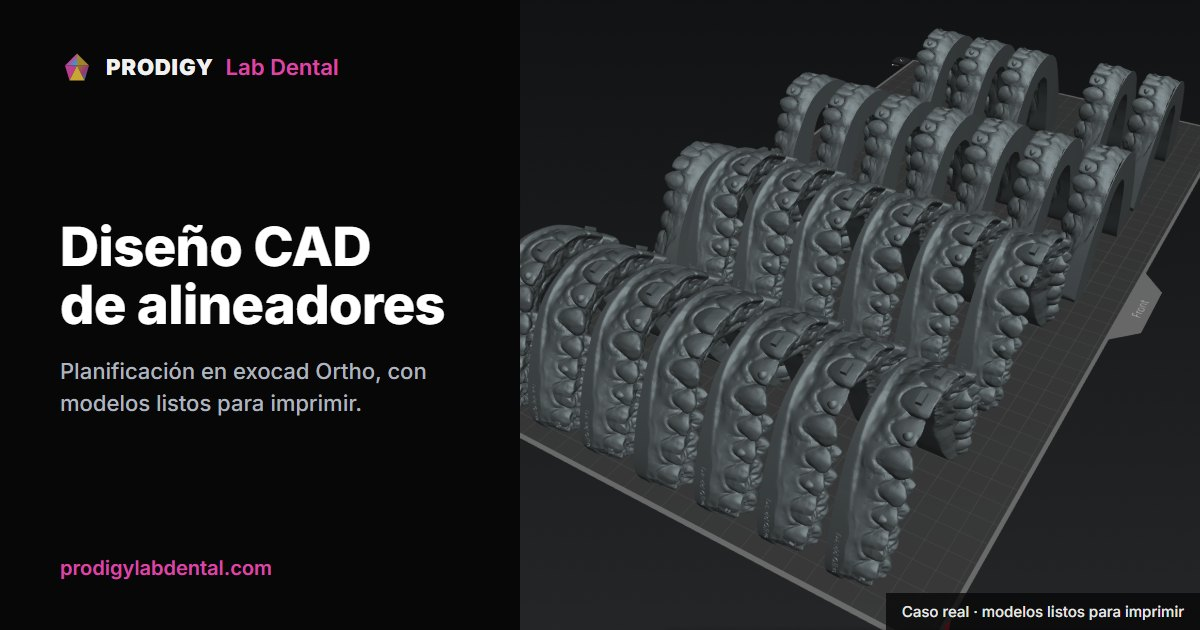
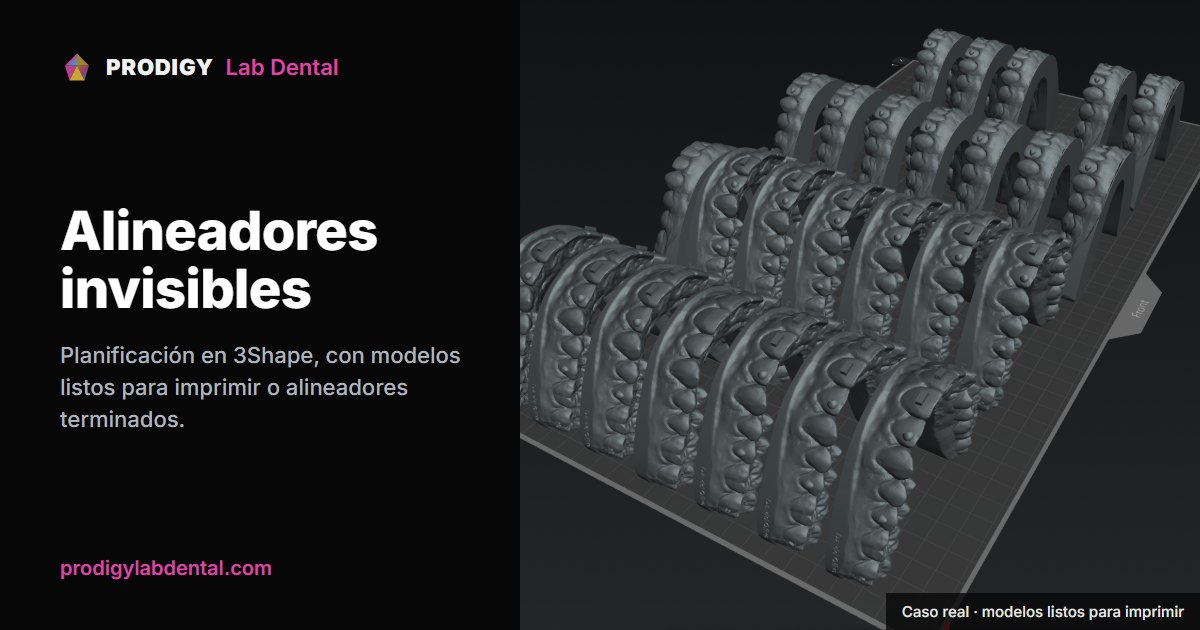
vista previa: /alineadores-cad con galería de casos del portafolio y planificación en 3Shape

Changed region(s): [[0.0308, 0.3317, 0.37, 0.5127], [0.0308, 0.5429, 0.4008, 0.6937]]

diff --git a/alineadores-cad.html b/alineadores-cad.html
@@ -42,9 +42,10 @@
 <noscript><link rel="stylesheet" href="https://fonts.googleapis.com/css2?family=Inter:wght@400;700;900&display=swap"></noscript>
 <link rel="preload" href="assets/font-awesome/fa.css?v=20261118" as="style" onload="this.onload=null;this.rel='stylesheet'">
 <noscript><link rel="stylesheet" href="assets/font-awesome/fa.css?v=20261118"></noscript>
-<link rel="preload" href="js/header.js?v=20261124d" as="script">
-<script type="application/ld+json">{"@context":"https://schema.org","@type":"Service","name":"Planificación y fabricación de alineadores invisibles","description":"Planificación digital de alineadores etapa por etapa, con IPR y attachments, revisada y aprobada por el odontólogo. Entrega del STL de cada etapa o de los alineadores terminados (modelo impreso, lámina termoformada, recorte y pulido), plantilla de attachments y retenedor final.","provider":{"@type":"LocalBusiness","name":"PRODIGY Lab Dental","url":"https://prodigylabdental.com","telephone":"+573212816716","address":{"@type":"PostalAddress","streetAddress":"Calle 147A #54-52","addressLocality":"Bogotá","addressCountry":"CO"}},"areaServed":"Colombia","serviceType":"Clear aligner planning and fabrication","audience":{"@type":"Audience","audienceType":"Odontólogos, ortodoncistas y laboratorios dentales"}}</script>
-<script type="application/ld+json">{"@context":"https://schema.org","@type":"FAQPage","mainEntity":[{"@type":"Question","name":"¿Qué incluye la planificación de alineadores?","acceptedAnswer":{"@type":"Answer","text":"La viabilidad y valoración del caso, el plan etapa por etapa con IPR y attachments, hasta 2 revisiones antes de aprobar y el STL de cada etapa listo para imprimir. Si el tratamiento termina en los tiempos del plan, incluye un refinamiento pedido dentro de los 6 meses siguientes."}},{"@type":"Question","name":"¿Qué pasa si el caso no es viable?","acceptedAnswer":{"@type":"Answer","text":"Primero revisamos la viabilidad y valoramos el caso. Si no es viable o decides no seguir, solo se cobra esa valoración. La valoración tiene vigencia de 3 a 4 meses."}},{"@type":"Question","name":"¿También fabrican los alineadores?","acceptedAnswer":{"@type":"Answer","text":"Sí. En nuestro laboratorio de Bogotá imprimimos el modelo de cada etapa, termoformamos la lámina y recortamos y pulimos cada alineador. También hacemos la plantilla de attachments y el retenedor final."}},{"@type":"Question","name":"¿Qué archivos necesitan?","acceptedAnswer":{"@type":"Answer","text":"El STL de ambas arcadas y la mordida (escaneo intraoral o modelos), radiografía panorámica y lateral de cráneo, fotos frontal, oclusales y laterales, el motivo de consulta, tus indicaciones y si aceptas IPR y attachments."}},{"@type":"Question","name":"¿Cuánto tarda la planificación?","acceptedAnswer":{"@type":"Answer","text":"De 48 a 72 horas hábiles desde que el caso está completo. Contamos días hábiles de Colombia, de lunes a viernes."}}]}</script>
+<link rel="preload" href="js/header.js?v=20261125a" as="script">
+<link rel="stylesheet" href="css/galeria-real.css?v=20261125a">
+<script type="application/ld+json">{"@context":"https://schema.org","@type":"Service","name":"Planificación y fabricación de alineadores invisibles","description":"Planificación digital de alineadores en 3Shape, etapa por etapa, con IPR y attachments, revisada y aprobada por el odontólogo. Entrega del STL de cada etapa o de los alineadores terminados (modelo impreso, lámina termoformada, recorte y pulido), plantilla de attachments y retenedor final.","provider":{"@type":"LocalBusiness","name":"PRODIGY Lab Dental","url":"https://prodigylabdental.com","telephone":"+573212816716","address":{"@type":"PostalAddress","streetAddress":"Calle 147A #54-52","addressLocality":"Bogotá","addressCountry":"CO"}},"areaServed":"Colombia","serviceType":"Clear aligner planning and fabrication","audience":{"@type":"Audience","audienceType":"Odontólogos, ortodoncistas y laboratorios dentales"}}</script>
+<script type="application/ld+json">{"@context":"https://schema.org","@type":"FAQPage","mainEntity":[{"@type":"Question","name":"¿Qué incluye la planificación de alineadores?","acceptedAnswer":{"@type":"Answer","text":"La viabilidad y valoración del caso, el plan etapa por etapa con IPR y attachments, hasta 2 revisiones antes de aprobar y el STL de cada etapa listo para imprimir. Si el tratamiento termina en los tiempos del plan, incluye un refinamiento pedido dentro de los 6 meses siguientes."}},{"@type":"Question","name":"¿Con qué programa planifican?","acceptedAnswer":{"@type":"Answer","text":"En 3Shape y otras herramientas de ortodoncia digital. Te entregamos el STL de cada etapa, que abre cualquier programa e impresora."}},{"@type":"Question","name":"¿Qué pasa si el caso no es viable?","acceptedAnswer":{"@type":"Answer","text":"Primero revisamos la viabilidad y valoramos el caso. Si no es viable o decides no seguir, solo se cobra esa valoración. La valoración tiene vigencia de 3 a 4 meses."}},{"@type":"Question","name":"¿También fabrican los alineadores?","acceptedAnswer":{"@type":"Answer","text":"Sí. En nuestro laboratorio de Bogotá imprimimos el modelo de cada etapa, termoformamos la lámina y recortamos y pulimos cada alineador. También hacemos la plantilla de attachments y el retenedor final."}},{"@type":"Question","name":"¿Qué archivos necesitan?","acceptedAnswer":{"@type":"Answer","text":"El STL de ambas arcadas y la mordida (escaneo intraoral o modelos), radiografía panorámica y lateral de cráneo, fotos frontal, oclusales y laterales, el motivo de consulta, tus indicaciones y si aceptas IPR y attachments."}},{"@type":"Question","name":"¿Cuánto tarda la planificación?","acceptedAnswer":{"@type":"Answer","text":"De 48 a 72 horas hábiles desde que el caso está completo. Contamos días hábiles de Colombia, de lunes a viernes."}}]}</script>
 <script type="application/ld+json">{"@context":"https://schema.org","@type":"HowTo","name":"Cómo enviar un caso de alineadores a PRODIGY","step":[{"@type":"HowToStep","position":1,"name":"Envía el caso","text":"Sube el STL, las radiografías, las fotos y tus indicaciones en /envia-alineadores."},{"@type":"HowToStep","position":2,"name":"Viabilidad y valoración","text":"Revisamos si el caso es viable y estimamos cuántos alineadores necesita."},{"@type":"HowToStep","position":3,"name":"Planificación y revisión","text":"Planificamos cada etapa con IPR y attachments. Lo revisas y pides hasta 2 ajustes antes de aprobar."},{"@type":"HowToStep","position":4,"name":"Entrega","text":"Recibes el STL de cada etapa para imprimir o los alineadores terminados desde Bogotá."}]}</script>
 <script type="application/ld+json">{"@context":"https://schema.org","@type":"BreadcrumbList","itemListElement":[{"@type":"ListItem","position":1,"name":"Inicio","item":"https://prodigylabdental.com/"},{"@type":"ListItem","position":2,"name":"Alineadores invisibles","item":"https://prodigylabdental.com/alineadores-cad"}]}</script>
 <style>
@@ -119,7 +120,7 @@ summary::-webkit-details-marker{display:none;}
 </style>
 </head>
 <body>
-<script src="js/header.js?v=20261124d"></script>
+<script src="js/header.js?v=20261125a"></script>
 
 <main id="main-content">
 
@@ -128,7 +129,7 @@ summary::-webkit-details-marker{display:none;}
     <div class="container hero-grid">
       <div>
         <h1>Planificamos tus alineadores y, si quieres, <em>los fabricamos</em></h1>
-        <p class="hero-sub">Envías el escaneo, las radiografías y las fotos. Una técnica dedicada a ortodoncia planifica el tratamiento etapa por etapa, con IPR y attachments, y tú lo revisas antes de aprobar. Recibes el STL de cada etapa para imprimir en tu consultorio o los alineadores terminados desde nuestro laboratorio en Bogotá.</p>
+        <p class="hero-sub">Envías el escaneo, las radiografías y las fotos. Una técnica dedicada a ortodoncia planifica el tratamiento en 3Shape, etapa por etapa, con IPR y attachments, y tú lo revisas antes de aprobar. Recibes el STL de cada etapa para imprimir en tu consultorio o los alineadores terminados desde nuestro laboratorio en Bogotá.</p>
         <div class="ctas">
           <a href="/envia-alineadores" class="btn-p"><i class="fas fa-upload" aria-hidden="true"></i> Enviar un caso</a>
           <a href="https://wa.me/573212816716?text=Hola%20PRODIGY%2C%20quiero%20informaci%C3%B3n%20sobre%20alineadores." target="_blank" rel="noopener noreferrer" class="btn-o"><i class="fab fa-whatsapp" aria-hidden="true"></i> Preguntar por WhatsApp</a>
@@ -233,6 +234,23 @@ summary::-webkit-details-marker{display:none;}
     </div>
   </section>
 
+  <!-- CASOS DEL PORTAFOLIO (galería con visor: css/galeria-real.css + js/galeria-real.js) -->
+  <section class="sec below-fold">
+    <div class="container">
+      <h2 class="sec-title">Casos de alineadores de nuestro portafolio</h2>
+      <p class="sec-sub">Planificaciones reales hechas en PRODIGY. Toca una foto para verla en grande.</p>
+      <div class="gal-real">
+        <figure><button type="button" class="gal-btn" data-grande="https://zgihrwqfyvgyapbwzkvw.supabase.co/storage/v1/render/image/public/portafolio/caso-1784826632765/cover.png?width=1600&amp;quality=75" aria-label="Ampliar: Plan de tratamiento: 11 alineadores superiores e inferiores"><img src="https://zgihrwqfyvgyapbwzkvw.supabase.co/storage/v1/render/image/public/portafolio/caso-1784826632765/cover.png?width=700&amp;quality=70" alt="Plan de tratamiento: 11 alineadores superiores e inferiores. Posición inicial y final, con los attachments en azul" width="700" height="525" loading="lazy" decoding="async"></button><figcaption>Posición inicial y final, con los attachments en azul · <a href="/caso?id=caso-1784826632765">11 alineadores superiores e inferiores</a></figcaption></figure>
+        <figure><button type="button" class="gal-btn" data-grande="https://zgihrwqfyvgyapbwzkvw.supabase.co/storage/v1/render/image/public/portafolio/caso-1784825019399/gallery/foto-2.png?width=1600&amp;quality=75" aria-label="Ampliar: Plan de tratamiento superior e inferior"><img src="https://zgihrwqfyvgyapbwzkvw.supabase.co/storage/v1/render/image/public/portafolio/caso-1784825019399/gallery/foto-2.png?width=700&amp;quality=70" alt="Plan de tratamiento superior e inferior. Modelos de las etapas con los attachments" width="700" height="525" loading="lazy" decoding="async"></button><figcaption>Modelos de las etapas con los attachments · <a href="/caso?id=caso-1784825019399">superior e inferior</a></figcaption></figure>
+        <figure><button type="button" class="gal-btn" data-grande="https://zgihrwqfyvgyapbwzkvw.supabase.co/storage/v1/render/image/public/portafolio/caso-1784823192836/cover.png?width=1600&amp;quality=75" aria-label="Ampliar: Plan de tratamiento: 8 alineadores superiores"><img src="https://zgihrwqfyvgyapbwzkvw.supabase.co/storage/v1/render/image/public/portafolio/caso-1784823192836/cover.png?width=700&amp;quality=70" alt="Plan de tratamiento: 8 alineadores superiores. Inicio y final del plan superior" width="700" height="525" loading="lazy" decoding="async"></button><figcaption>Inicio y final del plan superior · <a href="/caso?id=caso-1784823192836">8 alineadores superiores</a></figcaption></figure>
+        <figure><button type="button" class="gal-btn" data-grande="https://zgihrwqfyvgyapbwzkvw.supabase.co/storage/v1/render/image/public/portafolio/caso-1784825019399/gallery/foto-3.png?width=1600&amp;quality=75" aria-label="Ampliar: Plan de tratamiento superior e inferior"><img src="https://zgihrwqfyvgyapbwzkvw.supabase.co/storage/v1/render/image/public/portafolio/caso-1784825019399/gallery/foto-3.png?width=700&amp;quality=70" alt="Plan de tratamiento superior e inferior. Arcadas superior e inferior listas para imprimir" width="700" height="525" loading="lazy" decoding="async" style="object-position:center 40%"></button><figcaption>Arcadas superior e inferior listas para imprimir · <a href="/caso?id=caso-1784825019399">superior e inferior</a></figcaption></figure>
+        <figure><button type="button" class="gal-btn" data-grande="https://zgihrwqfyvgyapbwzkvw.supabase.co/storage/v1/render/image/public/portafolio/caso-1784822543789/cover.png?width=1600&amp;quality=75" aria-label="Ampliar: Plan de tratamiento para alineadores superior e inferior"><img src="https://zgihrwqfyvgyapbwzkvw.supabase.co/storage/v1/render/image/public/portafolio/caso-1784822543789/cover.png?width=700&amp;quality=70" alt="Plan de tratamiento para alineadores superior e inferior. Inicio y final del plan, ambas arcadas" width="700" height="525" loading="lazy" decoding="async"></button><figcaption>Inicio y final del plan, ambas arcadas · <a href="/caso?id=caso-1784822543789">alineadores superior e inferior</a></figcaption></figure>
+        <figure><button type="button" class="gal-btn" data-grande="https://zgihrwqfyvgyapbwzkvw.supabase.co/storage/v1/render/image/public/portafolio/caso-1784827436676/cover.png?width=1600&amp;quality=75" aria-label="Ampliar: Plan de tratamiento: 10 alineadores inferiores"><img src="https://zgihrwqfyvgyapbwzkvw.supabase.co/storage/v1/render/image/public/portafolio/caso-1784827436676/cover.png?width=700&amp;quality=70" alt="Plan de tratamiento: 10 alineadores inferiores. Inicio y final del plan inferior" width="700" height="525" loading="lazy" decoding="async"></button><figcaption>Inicio y final del plan inferior · <a href="/caso?id=caso-1784827436676">10 alineadores inferiores</a></figcaption></figure>
+      </div>
+      <p class="sec-sub" style="margin-top:22px;"><a href="/portafolio" style="color:var(--cyan);font-weight:700;">Ver todo el portafolio →</a></p>
+    </div>
+  </section>
+
   <!-- PREGUNTAS -->
   <section class="sec below-fold">
     <div class="container">
@@ -241,6 +259,10 @@ summary::-webkit-details-marker{display:none;}
         <details class="faq-item">
           <summary>¿Qué incluye la planificación?</summary>
           <div class="faq-body">La viabilidad y valoración del caso, el plan etapa por etapa con IPR y attachments, hasta 2 revisiones antes de aprobar y el STL de cada etapa listo para imprimir. Si el tratamiento termina en los tiempos del plan, incluye un refinamiento pedido dentro de los 6 meses siguientes.</div>
+        </details>
+        <details class="faq-item">
+          <summary>¿Con qué programa planifican?</summary>
+          <div class="faq-body">En 3Shape y otras herramientas de ortodoncia digital. Te entregamos el STL de cada etapa, que abre cualquier programa e impresora.</div>
         </details>
         <details class="faq-item">
           <summary>¿Qué pasa si el caso no es viable?</summary>
@@ -283,6 +305,7 @@ summary::-webkit-details-marker{display:none;}
 </main>
 
 <script src="js/footer.js?v=20261124b"></script>
+<script src="js/galeria-real.js?v=20261125a" defer></script>
 <script>
 /* PRODIGY Analytics — track-event */
 (function(){

diff --git a/js/galeria-real.js b/js/galeria-real.js
@@ -1,0 +1,87 @@
+/* Visor de la galería de trabajo real (css/galeria-real.css).
+   Clic en una foto → se amplía en un <dialog> sin salir de la página; flechas para recorrer la misma galería,
+   Esc o clic fuera para cerrar. */
+(function () {
+  'use strict';
+  var visor, img, cap, prev, next, lista = [], idx = 0;
+
+  function crear() {
+    visor = document.createElement('dialog');
+    visor.className = 'gal-visor';
+    visor.setAttribute('aria-label', 'Foto ampliada');
+    visor.innerHTML =
+      '<button type="button" class="gal-cerrar" aria-label="Cerrar">&times;</button>' +
+      '<button type="button" class="gal-prev" aria-label="Foto anterior">&#8249;</button>' +
+      '<figure><img alt=""><figcaption></figcaption></figure>' +
+      '<button type="button" class="gal-next" aria-label="Foto siguiente">&#8250;</button>';
+    document.body.appendChild(visor);
+    img = visor.querySelector('img');
+    cap = visor.querySelector('figcaption');
+    prev = visor.querySelector('.gal-prev');
+    next = visor.querySelector('.gal-next');
+    visor.querySelector('.gal-cerrar').addEventListener('click', function () { visor.close(); });
+    prev.addEventListener('click', function () { mostrar(idx - 1); });
+    next.addEventListener('click', function () { mostrar(idx + 1); });
+    visor.addEventListener('click', function (e) { if (e.target === visor) visor.close(); });
+    visor.addEventListener('keydown', function (e) {
+      if (e.key === 'ArrowLeft') mostrar(idx - 1);
+      else if (e.key === 'ArrowRight') mostrar(idx + 1);
+    });
+  }
+
+  function mostrar(i) {
+    idx = (i + lista.length) % lista.length;
+    var b = lista[idx];
+    var miniatura = b.querySelector('img');
+    var fig = b.closest('figure');
+    var texto = fig && fig.querySelector('figcaption');
+    img.src = b.getAttribute('data-grande') || (miniatura && miniatura.src) || '';
+    img.alt = miniatura ? miniatura.alt : '';
+    cap.textContent = texto ? texto.textContent : '';
+    var varias = lista.length > 1;
+    prev.style.display = varias ? '' : 'none';
+    next.style.display = varias ? '' : 'none';
+  }
+
+  /* Videos cortos (.gal-video): en silencio y en bucle; arrancan cuando se ven y se pausan al salir de pantalla.
+     Con «reducir movimiento» o ahorro de datos no arrancan solos: se reproducen con un clic. */
+  var quieto = window.matchMedia && window.matchMedia('(prefers-reduced-motion: reduce)').matches;
+  var ahorro = navigator.connection && navigator.connection.saveData;
+  var videos = Array.prototype.slice.call(document.querySelectorAll('.gal-video video'));
+  function marcar(v) { var f = v.closest('.gal-video'); if (f) f.classList.toggle('pausado', v.paused); }
+  function reproducir(v) { var p = v.play(); if (p && p.catch) p.catch(function () { marcar(v); }); }
+  videos.forEach(function (v) {
+    v.muted = true;
+    v.addEventListener('play', function () { marcar(v); });
+    v.addEventListener('pause', function () { marcar(v); });
+    marcar(v);
+  });
+  if (videos.length && 'IntersectionObserver' in window && !quieto && !ahorro) {
+    var io = new IntersectionObserver(function (entradas) {
+      entradas.forEach(function (en) {
+        var v = en.target;
+        if (en.isIntersecting && en.intersectionRatio >= 0.5) { if (!v.dataset.pausaManual) reproducir(v); }
+        else if (!v.paused) v.pause();
+      });
+    }, { threshold: [0, 0.5] });
+    videos.forEach(function (v) { io.observe(v); });
+  }
+
+  document.addEventListener('click', function (e) {
+    var cv = e.target && e.target.closest ? e.target.closest('.gal-real .gal-vid') : null;
+    if (cv) {
+      var v = cv.querySelector('video');
+      if (!v) return;
+      if (v.paused) { delete v.dataset.pausaManual; reproducir(v); }
+      else { v.dataset.pausaManual = '1'; v.pause(); }
+      return;
+    }
+    var b = e.target && e.target.closest ? e.target.closest('.gal-real .gal-btn') : null;
+    if (!b) return;
+    if (!visor) crear();
+    if (typeof visor.showModal !== 'function') return; // navegador muy viejo: se queda la miniatura
+    lista = Array.prototype.slice.call(b.closest('.gal-real').querySelectorAll('.gal-btn'));
+    mostrar(lista.indexOf(b));
+    if (!visor.open) visor.showModal();
+  });
+})();

diff --git a/css/galeria-real.css b/css/galeria-real.css
@@ -1,0 +1,43 @@
+/* Galería de trabajo real (fotos propias del laboratorio) + visor ampliado.
+   Uso: <div class="gal-real"> con <figure><button class="gal-btn" data-grande="…-1600.webp"><img …-800.webp></button><figcaption>…</figcaption></figure>
+   El visor lo crea js/galeria-real.js. Filas centradas de miniaturas 4:3 (la foto completa se ve en el visor;
+   para mover el encuadre de una miniatura: style="object-position:center 65%" en su <img>). */
+.gal-real{max-width:1100px;margin:30px auto 0;display:flex;flex-wrap:wrap;justify-content:center;align-items:flex-start;
+  gap:14px;text-align:left;}
+.gal-real figure{flex:0 1 340px;min-width:0;margin:0;background:#0b1220;
+  border:1px solid rgba(255,255,255,.08);border-radius:14px;overflow:hidden;}
+.gal-real .gal-btn{display:block;width:100%;padding:0;margin:0;border:0;background:#000;cursor:zoom-in;overflow:hidden;}
+.gal-real img{display:block;width:100%;height:auto;aspect-ratio:4/3;object-fit:cover;transition:transform .35s ease;}
+.gal-real .gal-btn:hover img,.gal-real .gal-btn:focus-visible img{transform:scale(1.03);}
+.gal-real .gal-btn:focus-visible{outline:2px solid #00d2ff;outline-offset:-2px;}
+.gal-real figcaption{padding:10px 14px 12px;font-size:.95rem;line-height:1.5;color:#cbd5e1;}
+/* Videos cortos: en silencio y en bucle, arrancan al verse (js/galeria-real.js); clic = pausa / sigue */
+.gal-real .gal-vid{position:relative;display:block;width:100%;padding:0;margin:0;border:0;background:#000;cursor:pointer;}
+.gal-real .gal-vid video{display:block;width:100%;height:auto;aspect-ratio:4/5;object-fit:cover;}
+.gal-real .gal-video.ancho .gal-vid video{aspect-ratio:16/9;}
+.gal-real .gal-play{position:absolute;left:50%;top:50%;width:64px;height:64px;margin:-32px 0 0 -32px;border-radius:50%;
+  background:rgba(5,5,5,.72);border:2px solid rgba(255,255,255,.85);display:none;align-items:center;justify-content:center;}
+.gal-real .gal-video.pausado .gal-play{display:flex;}
+.gal-real .gal-vid:focus-visible{outline:2px solid #00d2ff;outline-offset:-2px;}
+.gal-nota{max-width:760px;margin:6px auto 0;font-size:.9rem;color:#94a3b8;text-align:center;}
+
+/* Visor */
+.gal-visor{width:min(1200px,96vw);max-height:94vh;padding:0;border:0;border-radius:14px;background:#050505;color:#e2e8f0;overflow:visible;}
+.gal-visor::backdrop{background:rgba(0,0,0,.86);}
+.gal-visor figure{margin:0;display:flex;flex-direction:column;align-items:center;}
+.gal-visor img{display:block;max-width:100%;max-height:82vh;width:auto;height:auto;border-radius:14px 14px 0 0;}
+.gal-visor figcaption{padding:12px 56px 14px;font-size:1rem;line-height:1.5;text-align:center;}
+.gal-visor button{position:absolute;z-index:2;display:flex;align-items:center;justify-content:center;width:44px;height:44px;
+  border-radius:50%;border:1px solid rgba(255,255,255,.4);background:rgba(5,5,5,.75);color:#fff;font-size:1.6rem;line-height:1;cursor:pointer;}
+.gal-visor .gal-cerrar{top:10px;right:10px;}
+.gal-visor .gal-prev{left:10px;top:calc(50% - 40px);}
+.gal-visor .gal-next{right:10px;top:calc(50% - 40px);}
+.gal-visor button:focus-visible{outline:2px solid #00d2ff;outline-offset:2px;}
+@media(max-width:600px){
+  .gal-real figure{flex-basis:100%;}
+  .gal-visor figcaption{padding:10px 14px 12px;font-size:.92rem;}
+  .gal-visor .gal-prev,.gal-visor .gal-next{top:auto;bottom:-56px;}
+  .gal-visor .gal-prev{left:calc(50% - 54px);}
+  .gal-visor .gal-next{right:calc(50% - 54px);}
+}
+@media(prefers-reduced-motion:reduce){.gal-real img{transition:none;}}
